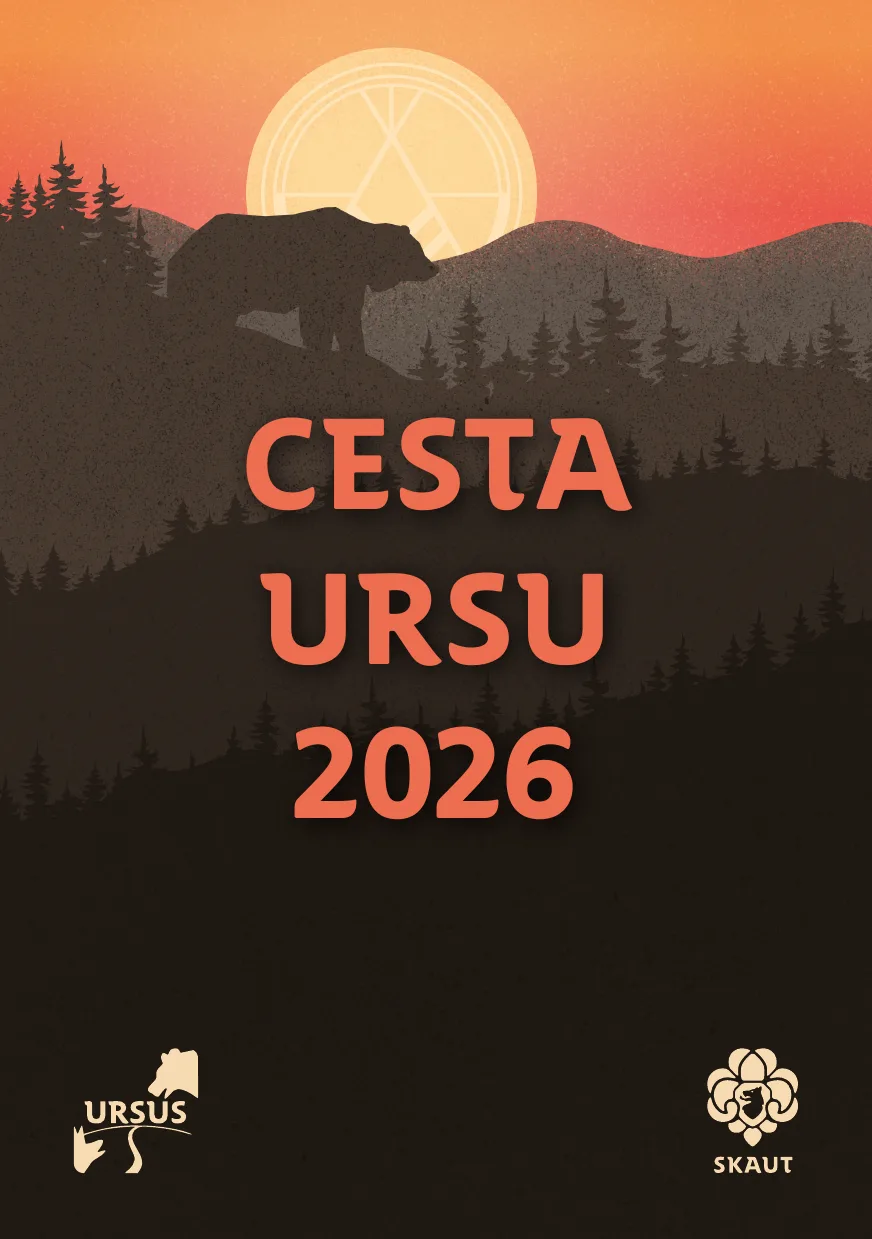
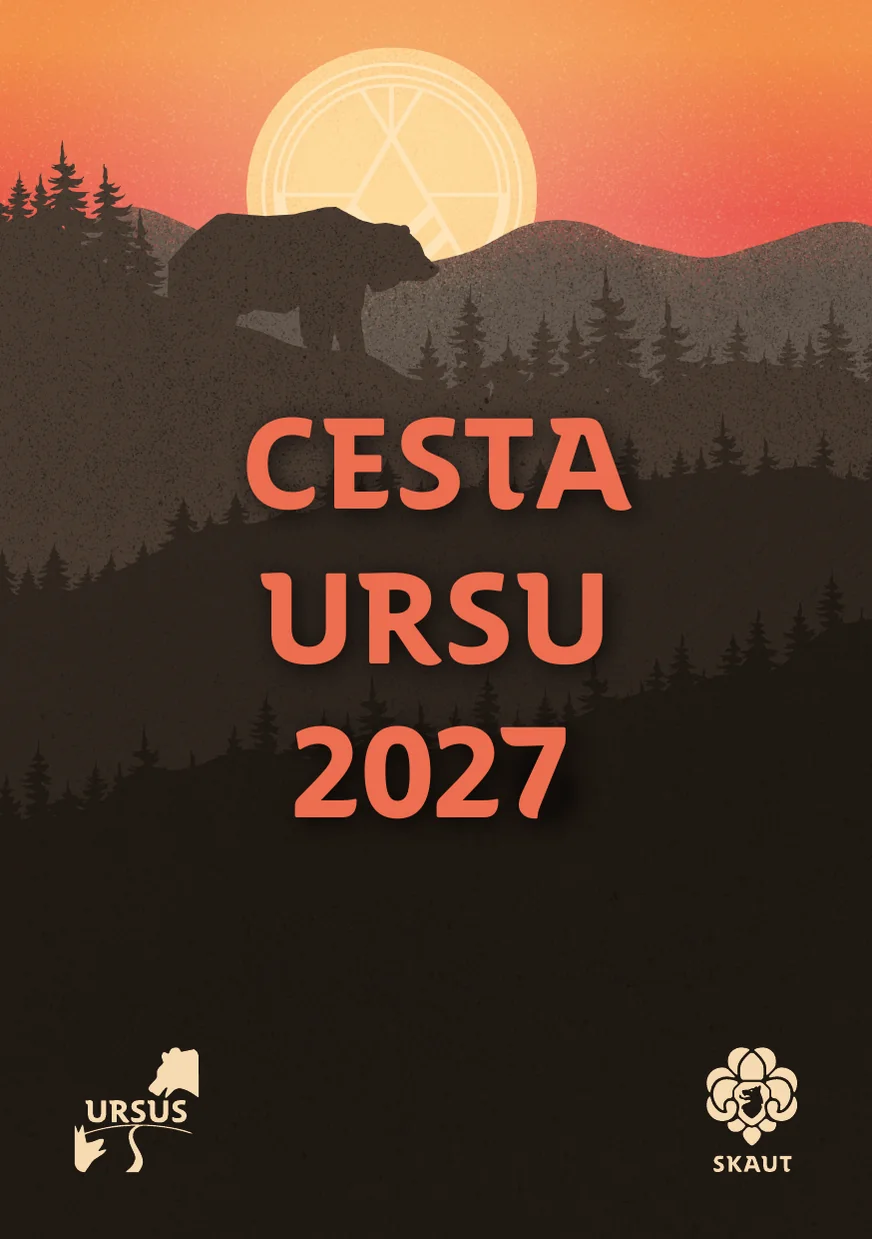
Stezka: obálka a popisky Cesta Ursu 2027
Obálka přerenderovaná z tiskového PDF se změněným letopočtem
(text je v PDF živý, takže písmo i stín sedí).

Claude-Session: https://claude.ai/code/session_01NFcX1Hsy9UQGpHzYrXCkTP

diff --git a/lib/content.ts b/lib/content.ts
@@ -131,9 +131,9 @@ export const chapters = {
 
 export const stezkaPreview = {
   cta: 'Prolistuj ukázku stezky',
-  note: 'Cesta Ursu 2026 · obálka a 3 ukázkové strany',
+  note: 'Cesta Ursu 2027 · obálka a 3 ukázkové strany',
   pages: [
-    { src: '/stezka/obalka.webp', alt: 'Obálka stezky Cesta Ursu 2026' },
+    { src: '/stezka/obalka.webp', alt: 'Obálka stezky Cesta Ursu 2027' },
     { src: '/stezka/priroda.webp', alt: 'Ukázka úkolu Příroda z kapitoly Metodika' },
     { src: '/stezka/vzajemne-uceni.webp', alt: 'Ukázka úkolů Vzájemné učení, 2 v 1 a Družinová zpětná vazba z kapitoly Seberozvoj' },
     { src: '/stezka/muj-pokrok.webp', alt: 'Strana Můj pokrok s přehledem kapitol a úkolů' },
